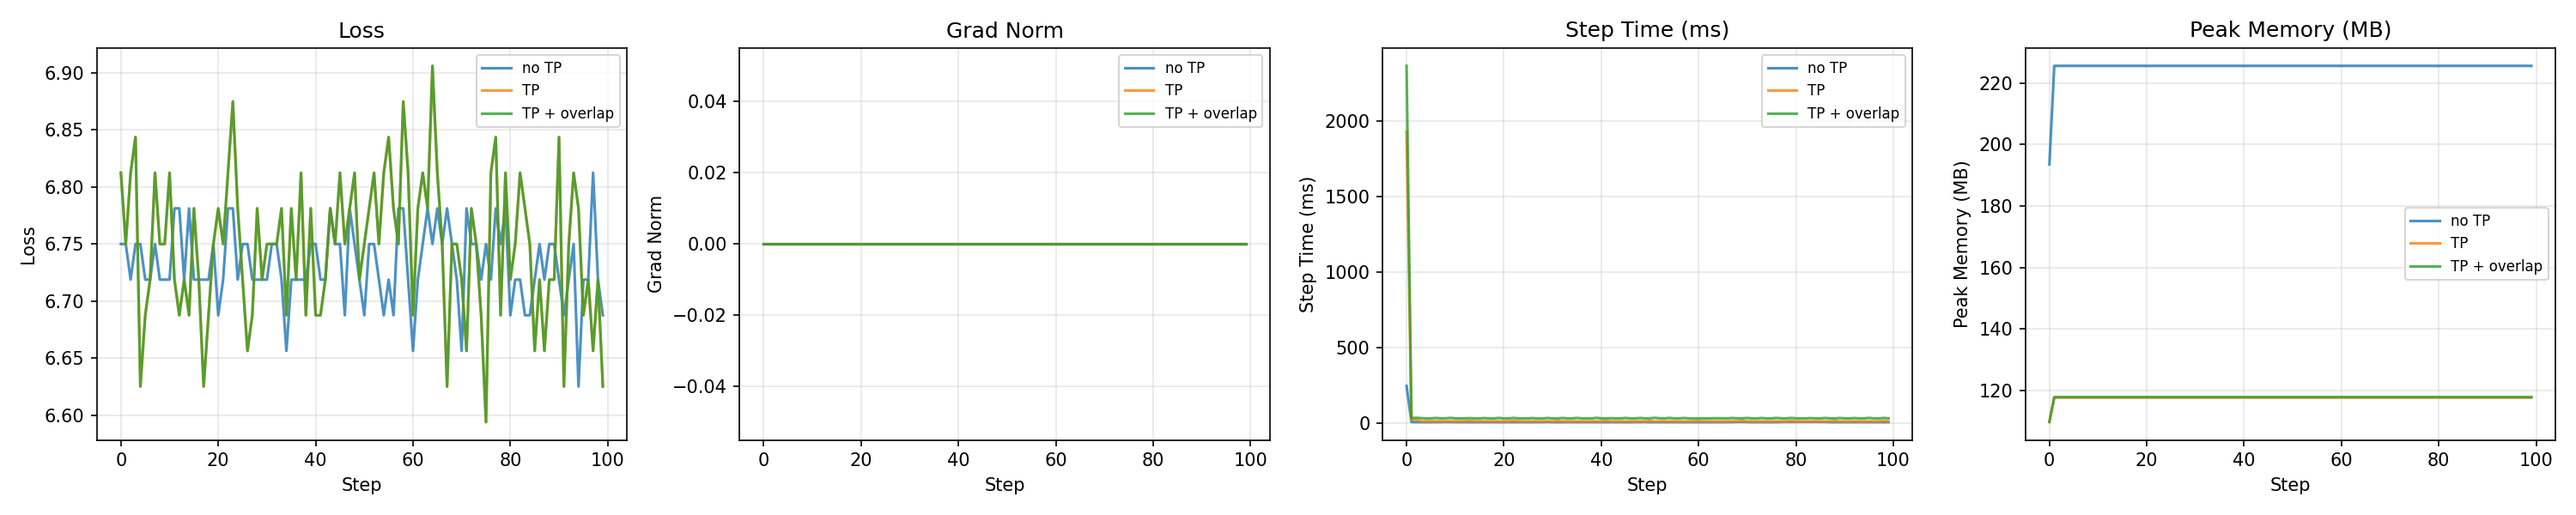
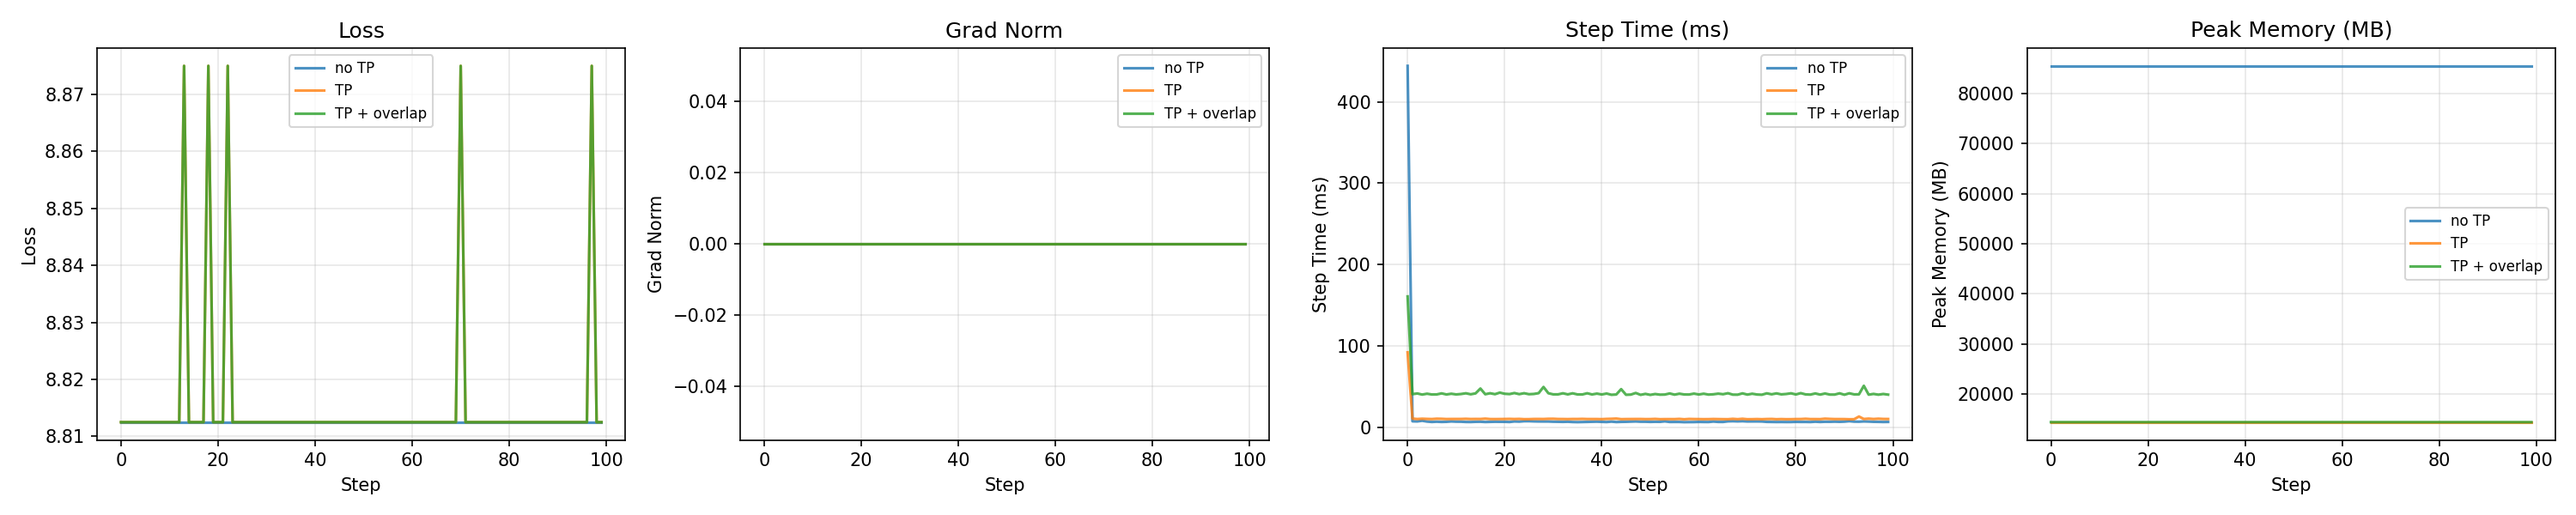
[profile] update profile scripts and results

diff --git a/profile_memory.py b/profile_memory.py
@@ -11,15 +11,16 @@ from config import ModelConfig
 from initialize import init_distributed, set_seed, get_tp_world_size
 from model import Transformer
 
-TP_SIZE = 4
+TP_SIZE = 8
 NUM_STEPS = 100
+WARMUP_STEPS = 10
 
 MODEL_KWARGS = dict(
-    hidden_size=512,
+    hidden_size=4096,
     num_attention_heads=8,
-    intermediate_size=1024,
+    intermediate_size=11008,
     num_layers=4,
-    sequence_length=256,
+    sequence_length=8192,
     batch_size=4,
 )
 
@@ -75,7 +76,7 @@ def _profile_worker(
 
     stats: list[dict] = []
 
-    for step in range(NUM_STEPS):
+    for step in range(NUM_STEPS + WARMUP_STEPS):
         torch.cuda.reset_peak_memory_stats()
         x = torch.randn(
             sp_seq_len,
@@ -101,6 +102,9 @@ def _profile_worker(
         optimizer.zero_grad()
         # torch.cuda.synchronize()
         t1 = time.perf_counter()
+
+        if step < WARMUP_STEPS:
+            continue
 
         grad_norm = _compute_grad_norm(model)
         peak_mem = torch.cuda.max_memory_allocated() / (1024**2)
@@ -187,8 +191,8 @@ def main():
         all_results[label] = run_profile(label, config, world_size)
 
         stats = all_results[label]
-        avg_time = sum(s["step_time_ms"] for s in stats[10:]) / len(stats[10:])
-        avg_mem = sum(s["memory_mb"] for s in stats[10:]) / len(stats[10:])
+        avg_time = sum(s["step_time_ms"] for s in stats) / len(stats)
+        avg_mem = sum(s["memory_mb"] for s in stats) / len(stats)
         print(f"  Avg step time (after warmup): {avg_time:.1f} ms")
         print(f"  Avg peak memory: {avg_mem:.1f} MB")
         print(f"  Final loss: {stats[-1]['loss']:.4f}")
